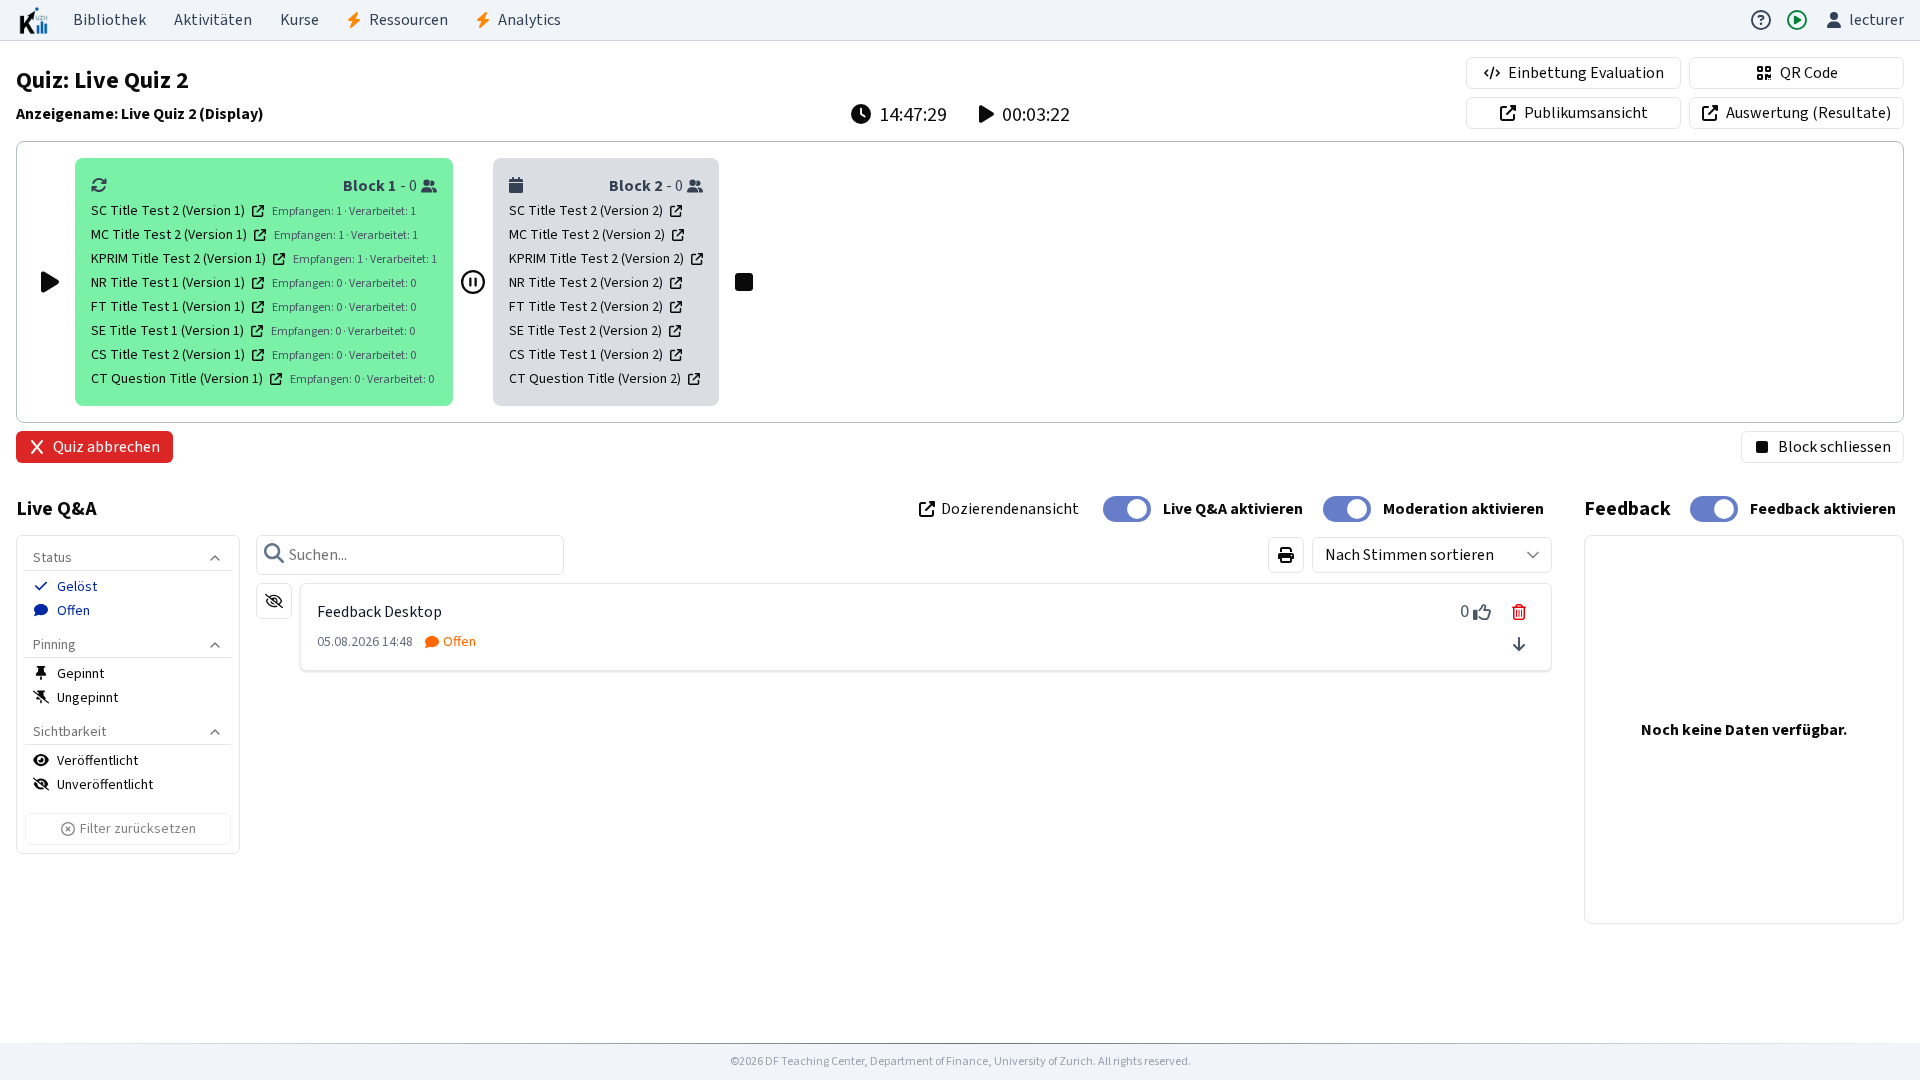
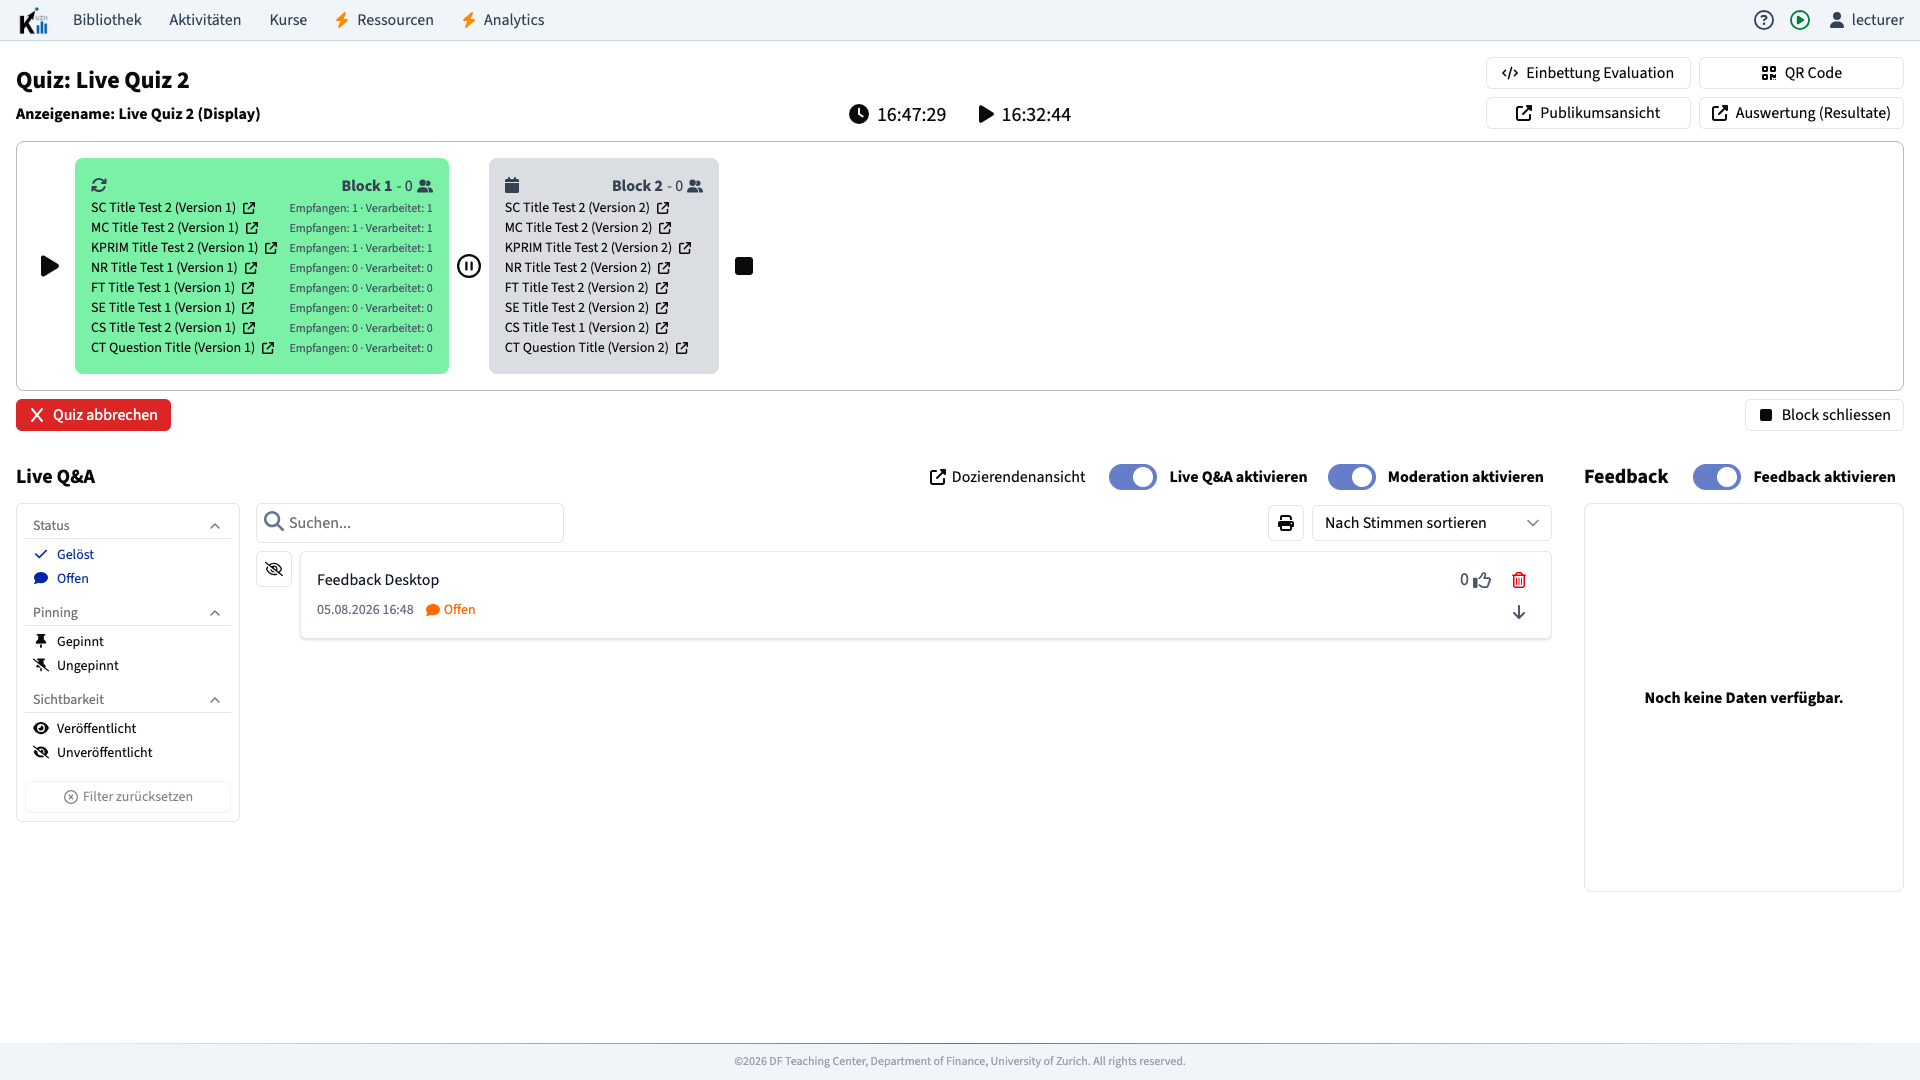
style(manage): align live quiz response counts

diff --git a/apps/frontend-manage/src/components/liveQuiz/cockpit/LiveQuizBlock.tsx b/apps/frontend-manage/src/components/liveQuiz/cockpit/LiveQuizBlock.tsx
@@ -89,44 +89,51 @@ function LiveQuizBlock({
           />
         )}
       </div>
-      {block.elements?.map((instance) => {
-        const numOfResponsesReceived = instance.numOfResponsesReceived
-        const numOfResponsesProcessed = instance.numOfResponsesProcessed
-        const hasResponseCounts =
-          numOfResponsesReceived !== null &&
-          typeof numOfResponsesReceived !== 'undefined' &&
-          numOfResponsesProcessed !== null &&
-          typeof numOfResponsesProcessed !== 'undefined'
+      <div className="grid grid-cols-[minmax(0,1fr)_max-content] items-baseline gap-x-3">
+        {block.elements?.map((instance) => {
+          const numOfResponsesReceived = instance.numOfResponsesReceived
+          const numOfResponsesProcessed = instance.numOfResponsesProcessed
+          const hasResponseCounts =
+            numOfResponsesReceived !== null &&
+            typeof numOfResponsesReceived !== 'undefined' &&
+            numOfResponsesProcessed !== null &&
+            typeof numOfResponsesProcessed !== 'undefined'
 
-        return (
-          <div key={instance.id}>
-            <Link
-              href={`/instances/${instance.id}`}
-              className="text-sm hover:text-slate-700"
-              data-cy={`open-question-live-quiz-${instance.id}`}
-              target="_blank"
-              rel="noopener noreferrer"
-            >
-              {instance.elementData!.name}{' '}
-              <FontAwesomeIcon className="ml-1 text-xs" icon={faExternalLink} />
-            </Link>
-            {hasResponseCounts ? (
-              <span
-                className="ml-2 whitespace-nowrap text-xs text-gray-600"
-                data-cy={`live-quiz-response-counts-${instance.id}`}
+          return (
+            <div key={instance.id} className="contents">
+              <Link
+                href={`/instances/${instance.id}`}
+                className="min-w-0 text-sm hover:text-slate-700"
+                data-cy={`open-question-live-quiz-${instance.id}`}
+                target="_blank"
+                rel="noopener noreferrer"
               >
-                {t('manage.cockpit.responsesReceived', {
-                  number: numOfResponsesReceived,
-                })}
-                <span aria-hidden="true"> · </span>
-                {t('manage.cockpit.responsesProcessed', {
-                  number: numOfResponsesProcessed,
-                })}
-              </span>
-            ) : null}
-          </div>
-        )
-      })}
+                {instance.elementData!.name}{' '}
+                <FontAwesomeIcon
+                  className="ml-1 text-xs"
+                  icon={faExternalLink}
+                />
+              </Link>
+              {hasResponseCounts ? (
+                <span
+                  className="whitespace-nowrap text-right text-xs text-gray-600"
+                  data-cy={`live-quiz-response-counts-${instance.id}`}
+                >
+                  {t('manage.cockpit.responsesReceived', {
+                    number: numOfResponsesReceived,
+                  })}
+                  <span aria-hidden="true"> · </span>
+                  {t('manage.cockpit.responsesProcessed', {
+                    number: numOfResponsesProcessed,
+                  })}
+                </span>
+              ) : (
+                <span aria-hidden="true" />
+              )}
+            </div>
+          )
+        })}
+      </div>
     </div>
   )
 }

diff --git a/docs/superpowers/plans/2026-08-05-live-quiz-response-counts.md b/docs/superpowers/plans/2026-08-05-live-quiz-response-counts.md
@@ -1024,3 +1024,47 @@ explain that the difference is not exact queue depth, list every verification
 command and result, include both locale screenshots, and mention any explicitly
 deferred review finding. Do not mark ready or merge without separate user
 approval.
+
+### Task 7: Align the element links and response statuses
+
+**Files:**
+
+- Modify:
+  `apps/frontend-manage/src/components/liveQuiz/cockpit/LiveQuizBlock.tsx`
+- Modify:
+  `docs/superpowers/specs/2026-08-05-live-quiz-response-counts-design.md`
+- Replace:
+  `project/2026-08-05-live-quiz-response-counts/live-quiz-response-counts-en.png`
+- Replace:
+  `project/2026-08-05-live-quiz-response-counts/live-quiz-response-counts-de.png`
+
+- [ ] **Step 1: Render the element list as one shared two-column grid**
+
+Keep every element link in the flexible left column and every response status
+in the content-sized, right-aligned column. Preserve an empty right-hand cell
+for scheduled elements, allow long element names to wrap, and keep each status
+on one line. Do not change the GraphQL data, translations, links, or stable
+`data-cy` selectors.
+
+- [ ] **Step 2: Format and typecheck the lecturer UI**
+
+Run:
+
+```bash
+pnpm exec biome check --write apps/frontend-manage/src/components/liveQuiz/cockpit/LiveQuizBlock.tsx
+pnpm --filter @klicker-uzh/frontend-manage check
+```
+
+- [ ] **Step 3: Verify the aligned layout and refresh PR screenshots**
+
+Use `npx agent-browser@0.32.2` against the real local lecturer cockpit. Verify
+that every active element status shares the same right-hand column, scheduled
+elements remain count-free, and the layout has no horizontal overflow in both
+English and German. Replace both checked-in locale screenshots with captures of
+the updated live UI.
+
+- [ ] **Step 4: Publish the refinement to the existing draft PR**
+
+Commit and push the component, design, plan, and screenshot updates. Update the
+existing draft PR description so both screenshot embeds point to the new commit
+and confirm that the rendered images show the two-column layout.

diff --git a/docs/superpowers/specs/2026-08-05-live-quiz-response-counts-design.md b/docs/superpowers/specs/2026-08-05-live-quiz-response-counts-design.md
@@ -99,6 +99,13 @@ stable `data-cy` selector containing the element-instance ID for end-to-end
 coverage. English and German messages are added through the existing `next-intl`
 catalogs.
 
+The element list uses one shared two-column layout: element names and their
+links occupy the flexible left column, while the received and processed values
+occupy a right-aligned, content-sized column. This keeps every status aligned
+independently of the element-name length. Long names may wrap in the left
+column, the status stays on one line, and scheduled elements reserve an empty
+right-hand cell so row alignment remains stable without displaying counts.
+
 ## Layer Footprint
 
 - `apps/response-api`: record received response identifiers.
